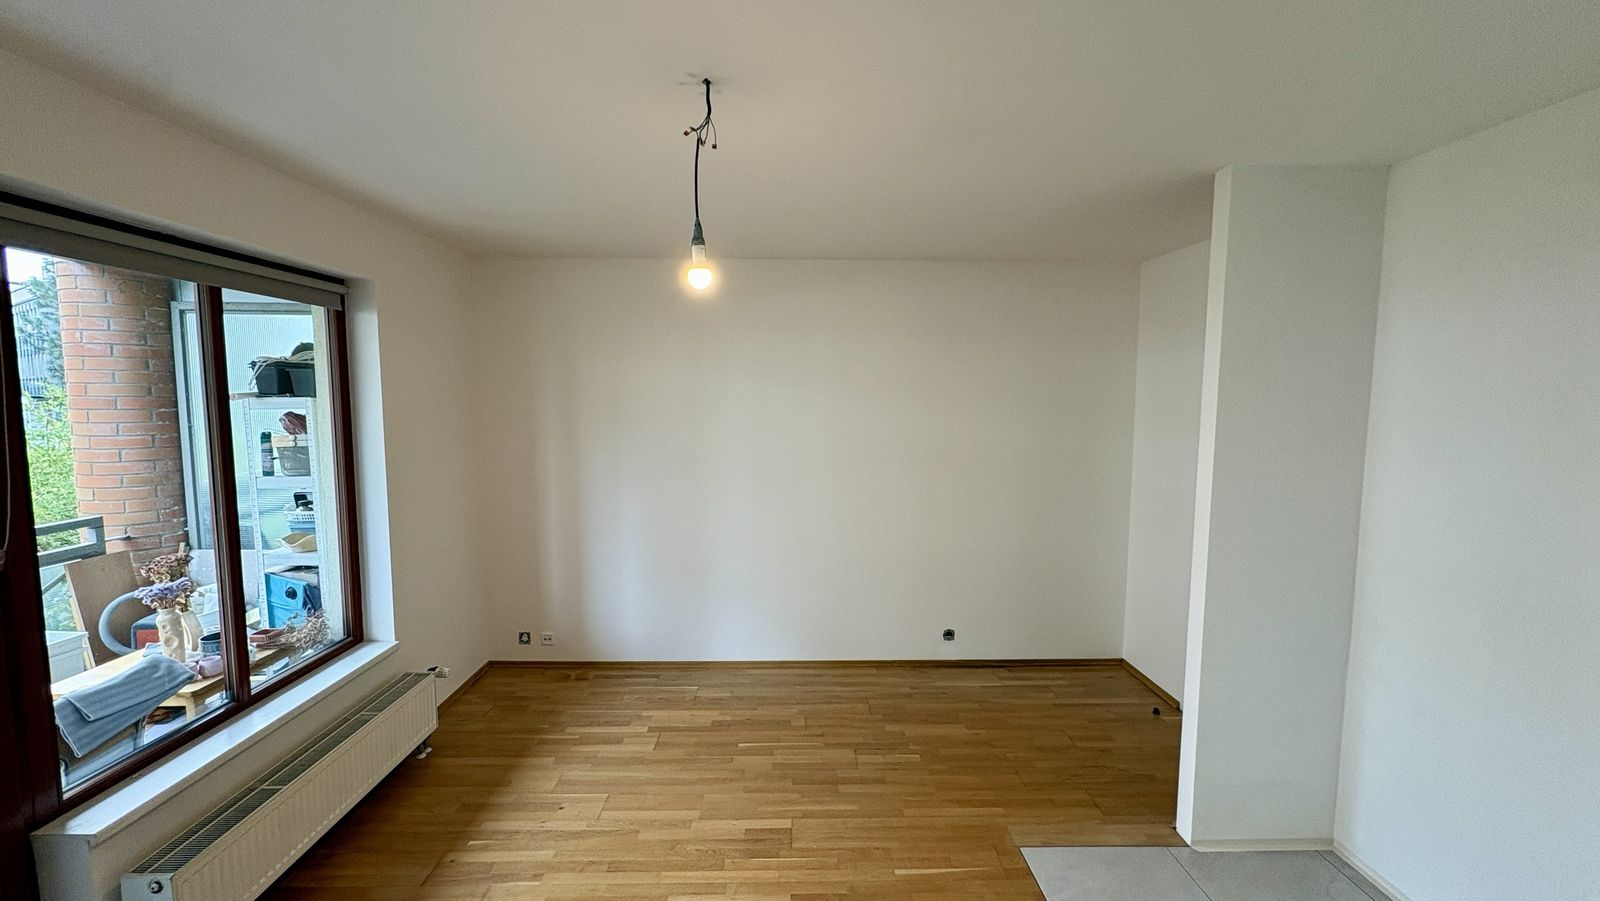
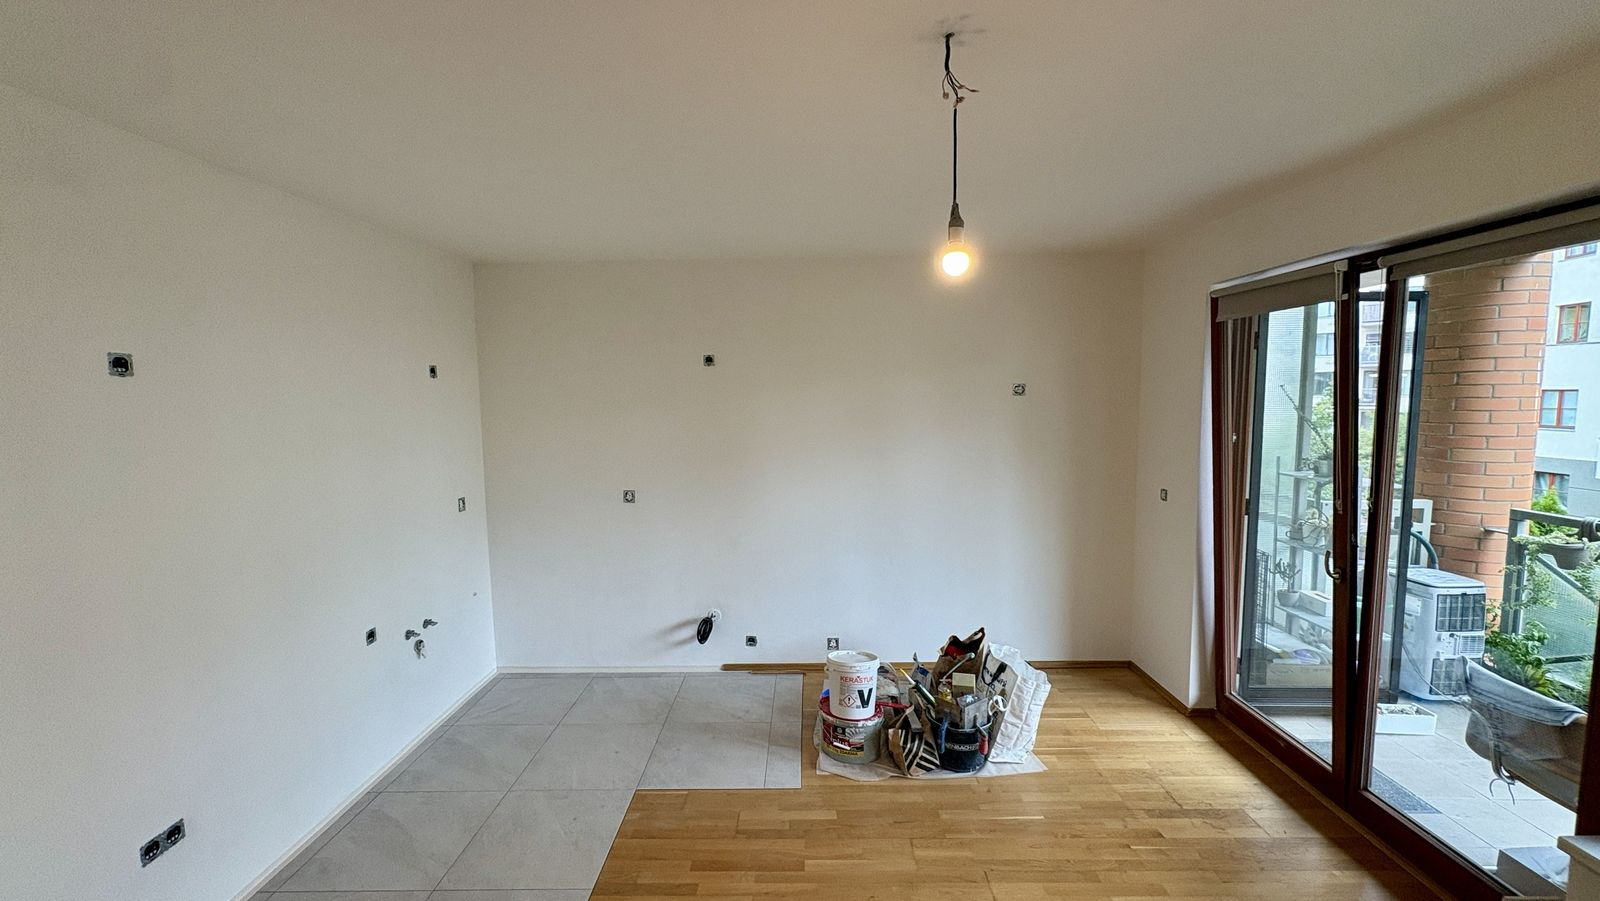
Podbaba: doplnit fotku pokládky dlažby do průběhu realizace
Claude-Session: https://claude.ai/code/session_017uKyLgyJ8ePrr6G917Pn4H

diff --git a/galerie.html b/galerie.html
@@ -1608,10 +1608,11 @@ footer {
                     <button class="gallery-item"><img src="foto/podbaba-prubeh-1.jpg" alt="Rekonstrukce bytu, Praha 6 – Podbaba: Původní stav po demontáži kuchyňské linky a obkladu" loading="lazy" onerror="this.parentElement.remove()"><span class="gallery-caption">1. Výchozí stav – demontovaná kuchyně</span></button>
                     <button class="gallery-item"><img src="foto/podbaba-prubeh-2.jpg" alt="Rekonstrukce bytu, Praha 6 – Podbaba: Zakrytí podlah a příprava prostoru před bouracími pracemi" loading="lazy" onerror="this.parentElement.remove()"><span class="gallery-caption">2. Příprava – zakrytí podlah</span></button>
                     <button class="gallery-item"><img src="foto/podbaba-prubeh-3.jpg" alt="Rekonstrukce bytu, Praha 6 – Podbaba: Nové rozvody elektroinstalace a vývody pro kuchyňskou linku" loading="lazy" onerror="this.parentElement.remove()"><span class="gallery-caption">3. Nové rozvody elektroinstalace</span></button>
-                    <button class="gallery-item"><img src="foto/podbaba-prubeh-4.jpg" alt="Rekonstrukce bytu, Praha 6 – Podbaba: Nová velkoformátová dlažba v kuchyňském koutě navazující na parkety" loading="lazy" onerror="this.parentElement.remove()"><span class="gallery-caption">4. Nová dlažba v kuchyňském koutě</span></button>
-                    <button class="gallery-item"><img src="foto/podbaba-prubeh-5.jpg" alt="Rekonstrukce bytu, Praha 6 – Podbaba: Vyštukované a vymalované stěny s připravenými vývody pro kuchyň" loading="lazy" onerror="this.parentElement.remove()"><span class="gallery-caption">5. Hotové stěny a vývody pro kuchyň</span></button>
-                    <button class="gallery-item"><img src="foto/podbaba-prubeh-6.jpg" alt="Rekonstrukce bytu, Praha 6 – Podbaba: Obývací část bytu po vymalování" loading="lazy" onerror="this.parentElement.remove()"><span class="gallery-caption">6. Obývací část po malování</span></button>
-                    <button class="gallery-item"><img src="foto/podbaba-prubeh-7.jpg" alt="Rekonstrukce bytu, Praha 6 – Podbaba: Pohled od vstupu – prostor připravený pro montáž kuchyňské linky" loading="lazy" onerror="this.parentElement.remove()"><span class="gallery-caption">7. Připraveno pro montáž kuchyně</span></button>
+                    <button class="gallery-item"><img src="foto/podbaba-prubeh-4.jpg" alt="Rekonstrukce bytu, Praha 6 – Podbaba: Pokládka velkoformátové dlažby s nivelačním systémem" loading="lazy" onerror="this.parentElement.remove()"><span class="gallery-caption">4. Pokládka velkoformátové dlažby</span></button>
+                    <button class="gallery-item"><img src="foto/podbaba-prubeh-5.jpg" alt="Rekonstrukce bytu, Praha 6 – Podbaba: Nová velkoformátová dlažba v kuchyňském koutě navazující na parkety" loading="lazy" onerror="this.parentElement.remove()"><span class="gallery-caption">5. Nová dlažba v kuchyňském koutě</span></button>
+                    <button class="gallery-item"><img src="foto/podbaba-prubeh-6.jpg" alt="Rekonstrukce bytu, Praha 6 – Podbaba: Vyštukované a vymalované stěny s připravenými vývody pro kuchyň" loading="lazy" onerror="this.parentElement.remove()"><span class="gallery-caption">6. Hotové stěny a vývody pro kuchyň</span></button>
+                    <button class="gallery-item"><img src="foto/podbaba-prubeh-7.jpg" alt="Rekonstrukce bytu, Praha 6 – Podbaba: Obývací část bytu po vymalování" loading="lazy" onerror="this.parentElement.remove()"><span class="gallery-caption">7. Obývací část po malování</span></button>
+                    <button class="gallery-item"><img src="foto/podbaba-prubeh-8.jpg" alt="Rekonstrukce bytu, Praha 6 – Podbaba: Pohled od vstupu – prostor připravený pro montáž kuchyňské linky" loading="lazy" onerror="this.parentElement.remove()"><span class="gallery-caption">8. Připraveno pro montáž kuchyně</span></button>
                     <button class="gallery-item"><img src="Po.JPEG" alt="Rekonstrukce bytu, Praha 6 – Podbaba (po)" loading="lazy" onerror="this.parentElement.remove()"><span class="gallery-caption">Po – montáž kuchyně</span></button>
             </div>
         </div>

diff --git a/zakazka-byt-podbaba.html b/zakazka-byt-podbaba.html
@@ -1638,10 +1638,11 @@ footer {
                     <button class="gallery-item"><img src="foto/podbaba-prubeh-1.jpg" alt="Rekonstrukce bytu, Praha 6 – Podbaba: Původní stav po demontáži kuchyňské linky a obkladu" loading="lazy" onerror="this.parentElement.remove()"><span class="gallery-caption">1. Výchozí stav – demontovaná kuchyně</span></button>
                     <button class="gallery-item"><img src="foto/podbaba-prubeh-2.jpg" alt="Rekonstrukce bytu, Praha 6 – Podbaba: Zakrytí podlah a příprava prostoru před bouracími pracemi" loading="lazy" onerror="this.parentElement.remove()"><span class="gallery-caption">2. Příprava – zakrytí podlah</span></button>
                     <button class="gallery-item"><img src="foto/podbaba-prubeh-3.jpg" alt="Rekonstrukce bytu, Praha 6 – Podbaba: Nové rozvody elektroinstalace a vývody pro kuchyňskou linku" loading="lazy" onerror="this.parentElement.remove()"><span class="gallery-caption">3. Nové rozvody elektroinstalace</span></button>
-                    <button class="gallery-item"><img src="foto/podbaba-prubeh-4.jpg" alt="Rekonstrukce bytu, Praha 6 – Podbaba: Nová velkoformátová dlažba v kuchyňském koutě navazující na parkety" loading="lazy" onerror="this.parentElement.remove()"><span class="gallery-caption">4. Nová dlažba v kuchyňském koutě</span></button>
-                    <button class="gallery-item"><img src="foto/podbaba-prubeh-5.jpg" alt="Rekonstrukce bytu, Praha 6 – Podbaba: Vyštukované a vymalované stěny s připravenými vývody pro kuchyň" loading="lazy" onerror="this.parentElement.remove()"><span class="gallery-caption">5. Hotové stěny a vývody pro kuchyň</span></button>
-                    <button class="gallery-item"><img src="foto/podbaba-prubeh-6.jpg" alt="Rekonstrukce bytu, Praha 6 – Podbaba: Obývací část bytu po vymalování" loading="lazy" onerror="this.parentElement.remove()"><span class="gallery-caption">6. Obývací část po malování</span></button>
-                    <button class="gallery-item"><img src="foto/podbaba-prubeh-7.jpg" alt="Rekonstrukce bytu, Praha 6 – Podbaba: Pohled od vstupu – prostor připravený pro montáž kuchyňské linky" loading="lazy" onerror="this.parentElement.remove()"><span class="gallery-caption">7. Připraveno pro montáž kuchyně</span></button>
+                    <button class="gallery-item"><img src="foto/podbaba-prubeh-4.jpg" alt="Rekonstrukce bytu, Praha 6 – Podbaba: Pokládka velkoformátové dlažby s nivelačním systémem" loading="lazy" onerror="this.parentElement.remove()"><span class="gallery-caption">4. Pokládka velkoformátové dlažby</span></button>
+                    <button class="gallery-item"><img src="foto/podbaba-prubeh-5.jpg" alt="Rekonstrukce bytu, Praha 6 – Podbaba: Nová velkoformátová dlažba v kuchyňském koutě navazující na parkety" loading="lazy" onerror="this.parentElement.remove()"><span class="gallery-caption">5. Nová dlažba v kuchyňském koutě</span></button>
+                    <button class="gallery-item"><img src="foto/podbaba-prubeh-6.jpg" alt="Rekonstrukce bytu, Praha 6 – Podbaba: Vyštukované a vymalované stěny s připravenými vývody pro kuchyň" loading="lazy" onerror="this.parentElement.remove()"><span class="gallery-caption">6. Hotové stěny a vývody pro kuchyň</span></button>
+                    <button class="gallery-item"><img src="foto/podbaba-prubeh-7.jpg" alt="Rekonstrukce bytu, Praha 6 – Podbaba: Obývací část bytu po vymalování" loading="lazy" onerror="this.parentElement.remove()"><span class="gallery-caption">7. Obývací část po malování</span></button>
+                    <button class="gallery-item"><img src="foto/podbaba-prubeh-8.jpg" alt="Rekonstrukce bytu, Praha 6 – Podbaba: Pohled od vstupu – prostor připravený pro montáž kuchyňské linky" loading="lazy" onerror="this.parentElement.remove()"><span class="gallery-caption">8. Připraveno pro montáž kuchyně</span></button>
             </div>
         </div>
 
